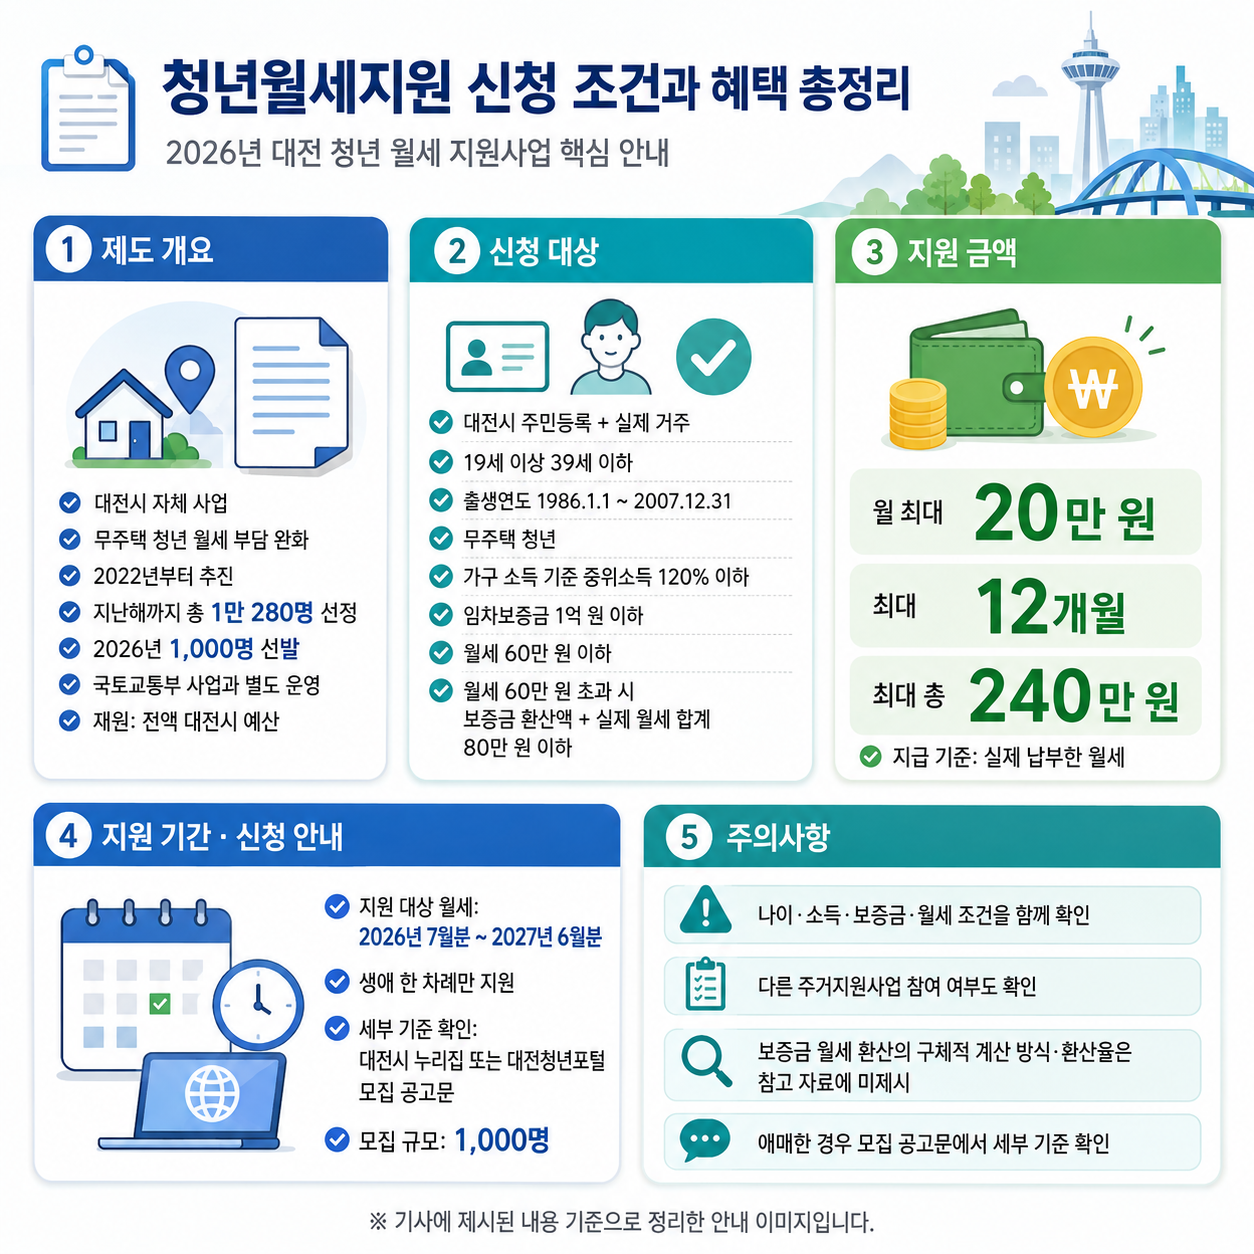
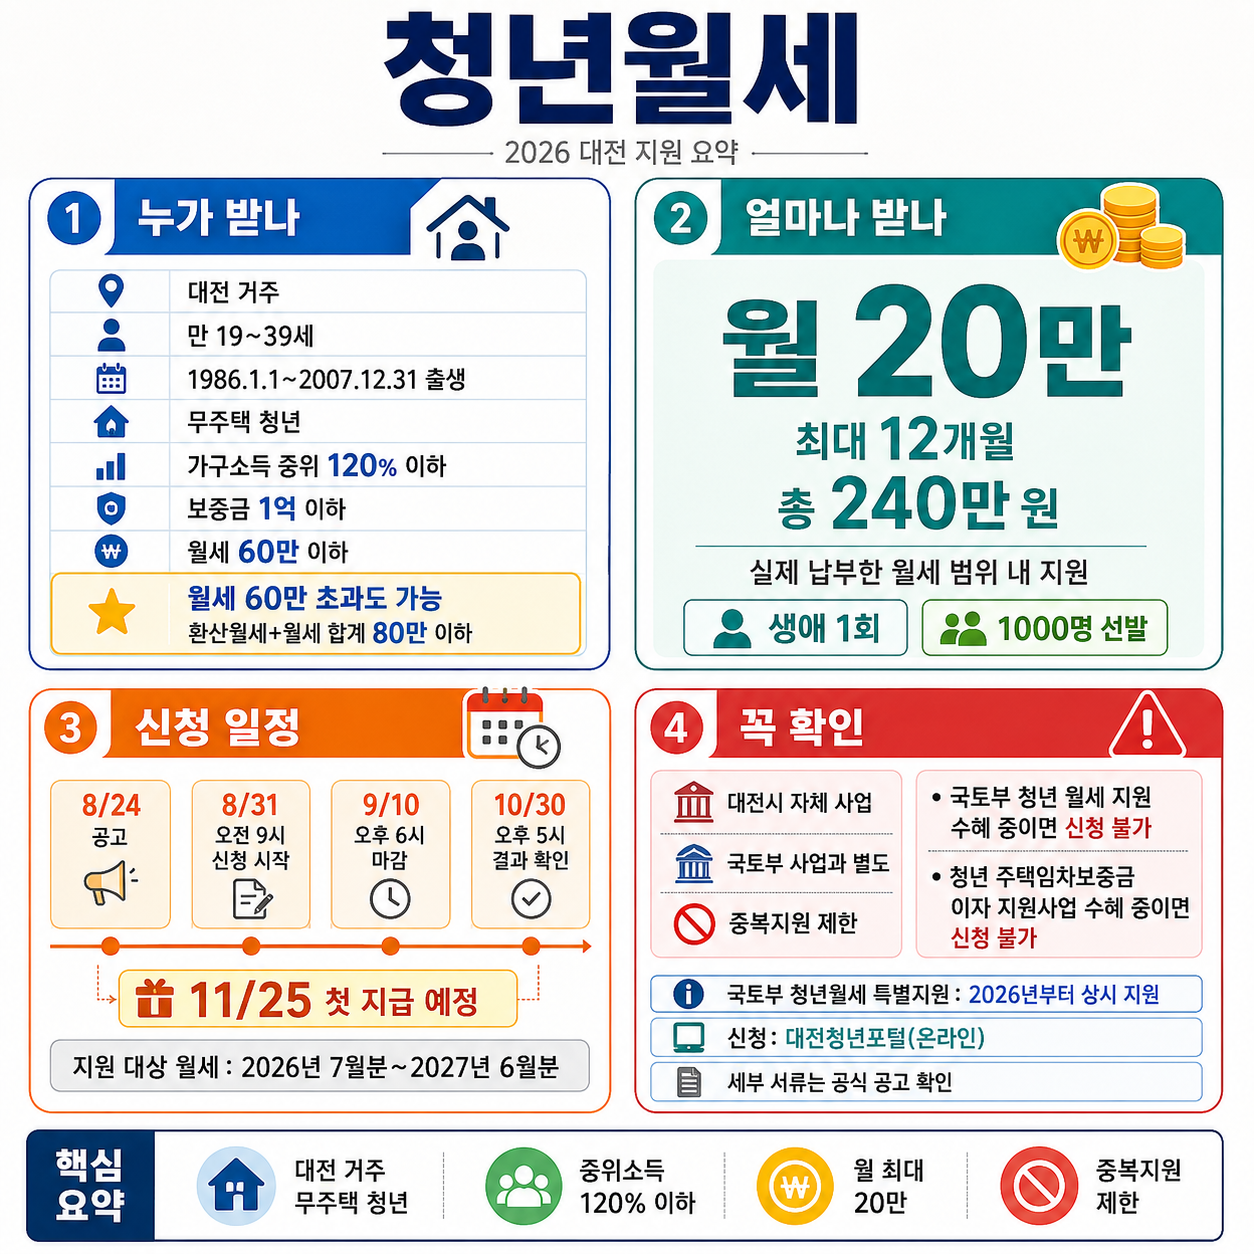
post: auto-generated for tax-yearend

diff --git a/sites/tax-yearend/content/posts/2026-08-29-청년월세지원-신청-조건과-혜택-총정리.md b/sites/tax-yearend/content/posts/2026-08-29-청년월세지원-신청-조건과-혜택-총정리.md
@@ -1,0 +1,265 @@
+---
+title: "청년월세지원 신청 조건과 혜택 총정리"
+date: 2026-08-29
+description: "청년월세지원, 어떤 제도인가요? 월세는 청년층에게 매달 빠져나가는 대표적인 고정비입니다. 특히 취업을 준비하거나 사회생활을 시작한 지 얼마 되지 않은 청년이라면 월세 부담이 생활비와 저축 여력에 직접적인 영향을 줄 수 있는데요. 이런 주거비 부담을 덜기 위해 정부와 지방자치단체에서 청년을 대상으로 월세 지원사업을 운영하고"
+categories: ["지원금·혜택"]
+tags: ["청년월세지원", "지원금·혜택"]
+author: "오늘의 트렌드"
+image: "/images/청년월세지원-신청-조건과-혜택-총정리.png"
+---
+
+## 청년월세지원, 어떤 제도인가요?
+
+월세는 청년층에게 매달 빠져나가는 대표적인 고정비입니다. 특히 취업을 준비하거나 사회생활을 시작한 지 얼마 되지 않은 청년이라면 월세 부담이 생활비와 저축 여력에 직접적인 영향을 줄 수 있는데요. 이런 주거비 부담을 덜기 위해 정부와 지방자치단체에서 청년을 대상으로 월세 지원사업을 운영하고 있습니다.
+
+이번 글에서는 참고 자료에서 구체적인 2026년 모집 조건과 일정이 확인되는 ‘2026년 대전 청년 월세 지원사업’을 중심으로 정리해 드리겠습니다. 이 사업은 국토교통부의 청년 월세 지원사업과는 별도로 대전시가 전액 시비로 추진하는 자체 사업입니다. 국토교통부 사업보다 연령과 소득 요건을 완화해 지원 대상을 넓힌 것이 특징입니다.
+
+따라서 정부의 청년 월세 지원 대상에 해당하지 않더라도 대전시 자체 사업의 요건을 충족한다면 신청 가능성을 확인해 볼 수 있습니다. 대전시는 2022년부터 해당 사업을 추진해 왔으며, 지난해까지 총 1만 280명을 선정했습니다. 2026년에는 지역 청년 1,000명을 선발할 계획입니다.
+
+현재 날짜가 2026년 8월 29일이므로, 올해 대전 청년 월세 지원사업 신청은 아직 시작되기 전입니다. 참고 자료에 따르면 신청은 2026년 8월 31일 오전 9시부터 9월 10일 오후 6시까지 진행됩니다. 신청을 준비하고 계신 분이라면 지금 자격과 제출서류를 미리 확인해 두시는 것이 좋겠습니다.
+
+또 하나 알아둘 부분이 있습니다. 정책브리핑 자료에 따르면 국토교통부의 ‘청년월세 특별지원’은 2026년부터 한시 사업에서 상시 사업으로 전환됐습니다. 다만 대전시 사업과 국토교통부 지원을 동시에 받을 수 있는 것은 아닙니다. 대전시 사업은 국토교통부 청년 월세 지원 등과의 중복지원이 제한되므로 본인이 어떤 사업에 해당하는지 먼저 구분해 보셔야 합니다.
+
+## 이런 분이 받을 수 있어요
+
+2026년 대전 청년 월세 지원사업은 단순히 ‘대전에 사는 청년’이라는 조건만으로 받을 수 있는 것은 아닙니다. 거주지·나이·주택 소유 여부·소득·보증금·월세 조건을 함께 확인해야 합니다.
+
+참고 자료에서 확인되는 신청 조건을 표로 정리하면 다음과 같습니다.
+
+구분	2026년 대전 청년 월세 지원 조건
+거주지역	신청일 기준 대전시에 주민등록을 두고 거주
+나이	19세 이상 39세 이하
+출생연도 기준	1986년 1월 1일~2007년 12월 31일 출생
+주택 소유	무주택 청년
+소득 기준	가구 소득 기준 중위소득 120% 이하
+임차보증금	1억 원 이하
+월세	월 60만 원 이하
+월세 60만 원 초과 시	보증금의 월세 환산액과 실제 월세를 합한 금액이 80만 원 이하이면 신청 가능
+모집 인원	1,000명
+지원 횟수	생애 한 차례
+중복지원	일부 다른 주거지원 사업과 중복 불가
+
+여기에서 기준 중위소득은 정부가 각종 복지사업의 대상자를 선정할 때 활용하는 소득 기준이라고 이해하시면 됩니다. 이번 대전 사업은 가구 소득이 기준 중위소득 120% 이하여야 한다고 안내돼 있습니다.
+
+다만 참고 자료에는 가구원 수별 구체적인 소득 금액이나 소득 산정 방식까지 제시되어 있지 않습니다. 따라서 본인의 소득이 실제 기준에 해당하는지 판단할 때는 대전시 누리집 또는 대전청년포털에 게시된 모집 공고문을 확인하시는 것이 안전합니다.
+
+### 월세가 60만 원을 조금 넘으면 무조건 탈락할까요?
+
+그렇지는 않습니다.
+
+기본적인 주거 조건은 임차보증금 1억 원 이하이면서 월세 60만 원 이하입니다. 하지만 월세가 60만 원을 초과한다고 해서 바로 신청 대상에서 제외되는 것은 아닙니다.
+
+참고 자료에 따르면 보증금의 월세 환산액과 월세를 합한 금액이 80만 원 이하인 경우에는 신청할 수 있습니다.
+
+다만 보증금을 월세로 환산하는 구체적인 계산 기준은 제공된 참고 자료에 명시되어 있지 않습니다. 임의로 계산하기보다는 방문 또는 신청 전 공식 모집 공고를 확인해 주세요.
+
+## 지원 금액과 혜택은 얼마나 되나요?
+
+가장 궁금한 부분은 역시 실제로 얼마나 지원받을 수 있는지일 텐데요.
+
+2026년 대전 청년 월세 지원사업에 선정되면 실제로 납부한 월세 범위에서 월 최대 20만 원을 최대 12개월 동안 지원받을 수 있습니다.
+
+최대로 지원받는 경우 총 지원액은 240만 원입니다.
+
+지원 항목	내용
+월 지원 한도	월 20만 원
+지원 기간	최대 12개월
+최대 총지원액	240만 원
+지급 기준	실제 납부한 월세 범위 내 지원
+지원 대상 월세	2026년 7월분~2027년 6월분
+지원 가능 횟수	생애 한 차례
+2026년 모집 인원	1,000명
+
+여기서 중요한 표현이 ‘실제 납부한 월세 범위’입니다.
+
+지원금이 월 20만 원이라고 해서 모든 선정자에게 조건 없이 매달 20만 원이 지급된다는 의미로 이해해서는 안 됩니다. 참고 자료에서는 실제로 납부한 월세 범위에서 월 20만 원씩 지원한다고 명시하고 있습니다.
+
+또한 지원 대상이 되는 월세 기간도 정해져 있습니다. 이번 모집의 지원 대상 월세는 2026년 7월분부터 2027년 6월분까지입니다.
+
+## 신청자가 1,000명을 넘으면 어떻게 선정하나요?
+
+이번 사업은 선착순 1,000명이라고 안내된 사업이 아닙니다.
+
+참고 자료에 따르면 신청자가 모집 인원을 초과하면 소득 기준과 임차료에 따른 평가점수를 합산하고, 고득점 순으로 대상자를 결정합니다.
+
+따라서 접수 시작 직후 신청하지 못했다고 해서 무조건 지원 기회를 잃는다고 볼 근거는 없습니다. 중요한 것은 신청 기간을 놓치지 않고 정확한 내용으로 신청하는 것입니다.
+
+다만 세부적인 평가점수 배점표는 제공된 참고 자료에 포함되어 있지 않습니다. 본인의 선정 가능성을 임의로 계산하기보다는 모집 공고문의 세부 기준을 확인하시기 바랍니다.
+
+## 온라인 신청 방법, 1단계부터 5단계까지
+
+2026년 대전 청년 월세 지원사업은 대전청년포털을 통한 온라인 신청이 가능합니다.
+
+참고 자료에는 신청 사이트와 신청 기간은 명시되어 있지만 화면별 메뉴 이름이나 입력 절차까지 상세하게 제시되어 있지는 않습니다. 따라서 아래에서는 확인되지 않은 메뉴명을 임의로 만들지 않고, 참고 자료에서 확인할 수 있는 범위 안에서 준비 과정을 5단계로 나누어 설명드리겠습니다.
+
+### 1단계. 내가 기본 신청 대상인지 확인하기
+
+가장 먼저 본인의 조건부터 점검해 주세요.
+
+신청일 기준으로 대전시에 주민등록을 두고 실제 거주하고 있는지, 19세 이상 39세 이하인지, 무주택 청년인지 확인합니다.
+
+그다음 소득과 주택 조건을 살펴보시면 됩니다.
+
+가구 소득은 기준 중위소득 120% 이하, 임차보증금은 1억 원 이하, 월세는 기본적으로 60만 원 이하인지 확인해 주세요.
+
+월세가 60만 원을 넘는 경우에는 별도의 예외 기준이 있으므로 공식 공고문의 월세 환산 기준을 확인하셔야 합니다.
+
+### 2단계. 공식 모집 공고문과 제출서류 확인하기
+
+참고 자료에 따르면 세부 지원 요건과 제출서류는 2026년 8월 24일부터 대전시 누리집과 대전청년포털에 게시되는 모집 공고문에서 확인할 수 있습니다.
+
+특히 제출서류는 신청자의 상황에 따라 확인해야 할 내용이 있을 수 있으므로 반드시 공고문을 기준으로 준비하시는 것이 좋습니다.
+
+참고 자료에 구체적으로 명시되지 않은 서류를 임의로 준비하기보다는 공식 모집 공고의 제출서류 목록을 우선 확인해 주세요.
+
+### 3단계. 대전청년포털에서 온라인 신청하기
+
+신청은 2026년 8월 31일 오전 9시부터 가능합니다.
+
+대전청년포털에 접속하여 2026년 대전 청년 월세 지원사업 모집 안내를 확인한 뒤 온라인 신청을 진행하시면 됩니다.
+
+정확한 메뉴명이나 화면 구성은 제공된 참고 자료에서 확인되지 않으므로 실제 신청 시에는 포털의 공식 안내에 따라 진행해 주세요.
+
+### 4단계. 신청 내용과 제출자료 확인 후 접수하기
+
+온라인 신청 과정에서는 본인이 입력한 내용과 요구되는 제출자료를 꼼꼼히 확인하시는 것이 중요합니다.
+
+특히 이번 사업은 거주지역, 연령, 무주택 여부, 가구 소득, 임차보증금, 월세 등 여러 조건을 종합적으로 확인합니다.
+
+신청자가 모집 인원을 초과할 경우 소득 기준과 임차료에 따른 평가점수가 선정에 활용되기 때문에 관련 내용을 정확하게 확인하고 신청하는 것이 좋겠습니다.
+
+### 5단계. 결과 확인 후 월세 납부 증빙 준비하기
+
+선정 결과는 참고 자료 기준 2026년 10월 30일 오후 5시 대전청년포털 마이페이지에서 확인할 수 있습니다.
+
+선정되었다고 바로 지원금이 지급되는 것은 아닙니다. 참고 자료에서는 월세 납부 증빙자료 등을 확인한 후 첫 지원금을 2026년 11월 25일 지급할 예정이라고 안내하고 있습니다.
+
+따라서 월세를 실제 납부했다는 사실을 확인할 수 있는 자료 관리도 중요합니다. 어떤 자료가 인정되는지는 공식 모집 공고 및 이후 안내를 확인해 주세요.
+
+
+<figure class="post-mid-image">
+  <img src="/images/청년월세지원-신청-조건과-혜택-총정리-mid.png" alt="청년월세지원 신청 조건과 혜택 총정리 인포그래픽" loading="lazy">
+</figure>
+
+## 오프라인으로도 신청할 수 있나요?
+
+제공된 참고 자료에서는 대전청년포털을 통한 온라인 신청 방법이 명시되어 있습니다.
+
+반면 별도의 오프라인 접수처나 방문 신청 방법은 구체적으로 확인되지 않습니다. 따라서 오프라인 신청 가능 여부를 임의로 안내하기는 어렵습니다.
+
+온라인 신청이 어려운 경우에는 방문 전 공식 안내를 확인하시기 바랍니다.
+
+문의처는 참고 자료에서 대전청년내일재단으로 안내하고 있으며, 파이낸셜뉴스 자료에는 문의 전화가 042-719-8031~4, 8431로 명시되어 있습니다.
+
+## 신청 기간과 주요 일정을 월별로 확인하세요
+
+현재는 2026년 8월 29일이므로 신청 시작 전입니다. 신청 기간이 길지 않은 만큼 주요 일정을 미리 체크해 두시는 것이 좋습니다.
+
+시기	주요 일정
+2026년 8월 24일	세부 지원 요건·제출서류 등 모집 공고문 게시
+2026년 8월 31일 오전 9시	온라인 신청 시작
+2026년 9월 10일 오후 6시	신청 마감
+2026년 10월 30일 오후 5시	선정 결과 확인
+2026년 11월 25일	월세 납부 증빙자료 등을 확인한 후 첫 지원금 지급 예정
+2026년 7월~2027년 6월	지원 대상 월세 기간
+
+특히 9월 10일 오후 6시가 신청 마감이라는 점을 기억해 주세요.
+
+마감 직전에 준비하기보다 모집 공고문에서 제출서류를 먼저 확인해 두는 편이 좋습니다.
+
+## 꼭 알아야 할 주의사항과 신청 꿀팁
+
+### 1. 국토교통부 청년 월세 지원과 혼동하지 마세요
+
+이번에 소개하는 사업은 국토교통부 사업 자체가 아니라 대전시가 전액 시비로 운영하는 별도의 청년 월세 지원사업입니다.
+
+대전시 사업은 국토교통부 사업보다 연령과 소득 요건을 완화한 자체 사업으로 안내돼 있습니다. 정부 사업 대상이 아니더라도 대전시 자체 조건을 충족한다면 신청 가능성을 확인해 보세요.
+
+### 2. 중복지원 제한을 반드시 확인하세요
+
+이미 다른 주거지원 혜택을 받고 있다면 특히 주의하셔야 합니다.
+
+참고 자료에 따르면 청년 주택임차보증금 이자 지원사업이나 국토교통부 청년 월세 지원 등의 혜택을 받고 있는 경우 대전시 사업에 신청할 수 없습니다.
+
+기존에 받고 있는 주거지원이 있다면 먼저 중복지원 제한에 해당하는지 확인해 주세요.
+
+### 3. 월세 60만 원을 넘는다고 바로 포기하지 마세요
+
+월세가 60만 원 이하라는 기본 조건만 보고 신청을 포기하실 필요는 없습니다.
+
+월세가 60만 원을 초과하더라도 보증금의 월세 환산액과 월세를 합한 금액이 80만 원 이하라면 신청할 수 있습니다.
+
+단, 구체적인 환산 방법은 참고 자료에 없으므로 공식 공고에서 확인해야 합니다.
+
+### 4. 최대 240만 원은 ‘최대치’입니다
+
+지원 내용은 월 20만 원씩 최대 12개월, 총 240만 원이지만 실제로 납부한 월세 범위에서 지원됩니다.
+
+따라서 ‘선정되면 무조건 240만 원을 받는다’고 이해하시면 안 됩니다.
+
+### 5. 신청자가 많아도 선착순이라고 단정하지 마세요
+
+모집 인원은 1,000명입니다.
+
+하지만 신청자가 1,000명을 넘으면 단순히 먼저 신청한 사람 순으로 선정한다고 안내된 것이 아니라, 소득 기준과 임차료에 따른 평가점수를 합산해 고득점 순으로 결정합니다.
+
+따라서 신청 기간 내 정확하게 접수하는 것이 중요합니다.
+
+### 6. 월세 납부 관련 자료를 잘 관리해 두세요
+
+첫 지원금은 월세 납부 증빙자료 등을 확인한 후 지급될 예정입니다.
+
+따라서 지원을 준비하는 동안 실제 월세 납부 사실을 확인할 수 있는 관련 자료를 잘 관리해 두는 것이 좋습니다. 인정되는 증빙자료의 구체적인 종류와 제출 방법은 공식 안내를 확인해 주세요.
+
+### 7. ‘생애 한 차례’라는 조건을 기억하세요
+
+이번 대전 청년 월세 지원사업은 생애 한 차례만 지원받을 수 있습니다.
+
+과거 지원 이력이 있거나 본인의 지원 가능 여부가 애매하다면 신청 전에 공식 공고 및 문의처를 통해 확인하는 것이 좋습니다.
+
+### 8. 세부 제출서류는 기사보다 모집 공고문을 우선 확인하세요
+
+제공된 참고 자료에서도 세부 지원 요건과 제출서류는 대전시 누리집과 대전청년포털에 게시되는 모집 공고문을 통해 확인하도록 안내하고 있습니다.
+
+특히 실제 신청 단계에서는 기사에 요약된 내용만으로 판단하지 말고 공식 공고를 기준으로 준비해 주세요.
+
+## 신청 전 최종 체크리스트
+
+신청을 준비하고 계신다면 아래 조건부터 확인해 보시면 좋습니다.
+
+확인 항목	체크할 내용
+대전 거주	신청일 기준 대전시에 주민등록을 두고 거주하는지
+나이	19세 이상 39세 이하인지
+출생일	1986년 1월 1일~2007년 12월 31일 범위인지
+주택 소유	무주택 청년인지
+가구 소득	기준 중위소득 120% 이하인지
+보증금	임차보증금 1억 원 이하인지
+월세	기본적으로 월 60만 원 이하인지
+월세 예외	60만 원 초과 시 환산액을 포함한 별도 기준에 해당하는지
+중복지원	다른 제한 대상 주거지원 혜택을 받고 있지 않은지
+신청 기간	2026년 8월 31일 오전 9시~9월 10일 오후 6시인지
+제출서류	공식 모집 공고에서 확인했는지
+
+## 자주 묻는 질문(FAQ)
+
+## Q: 대전 청년 월세 지원은 누구나 신청할 수 있나요?
+
+A: 아닙니다. 신청일 기준 대전시에 주민등록을 두고 거주하는 19세 이상 39세 이하 무주택 청년이어야 하며, 가구 소득이 기준 중위소득 120% 이하이고 임차보증금과 월세 등 주거 조건도 충족해야 합니다.
+
+## Q: 월세를 얼마나 지원받을 수 있나요?
+
+A: 선정되면 실제 납부한 월세 범위에서 월 20만 원씩 최대 12개월, 총 최대 240만 원을 지원받을 수 있습니다. 지원 대상 월세는 2026년 7월분부터 2027년 6월분까지입니다.
+
+## Q: 월세가 60만 원을 넘으면 신청할 수 없나요?
+
+A: 반드시 그런 것은 아닙니다헤럴드경제 - 대전시, ‘2026년 대전 청년 월세 지원사업’ 공고
+파이낸셜뉴스 - 대전시, 청년 1000명 월세 지원…20만원씩 최대 12개월
+대한민국 정책브리핑 - ‘청년월세 특별지원’ 나도 신청할 수 있을까
+뉴스핌 - 대전 청년 1000명에 월세 최대 240만 원…31일부터 신청
+
+---
+
+<figure class="post-comic">
+  <figcaption>오늘의 시사 4컷</figcaption>
+  <img src="/images/청년월세지원-신청-조건과-혜택-총정리-comic.png" alt="청년월세지원 신청 조건과 혜택 총정리 4컷만화" loading="lazy">
+</figure>
